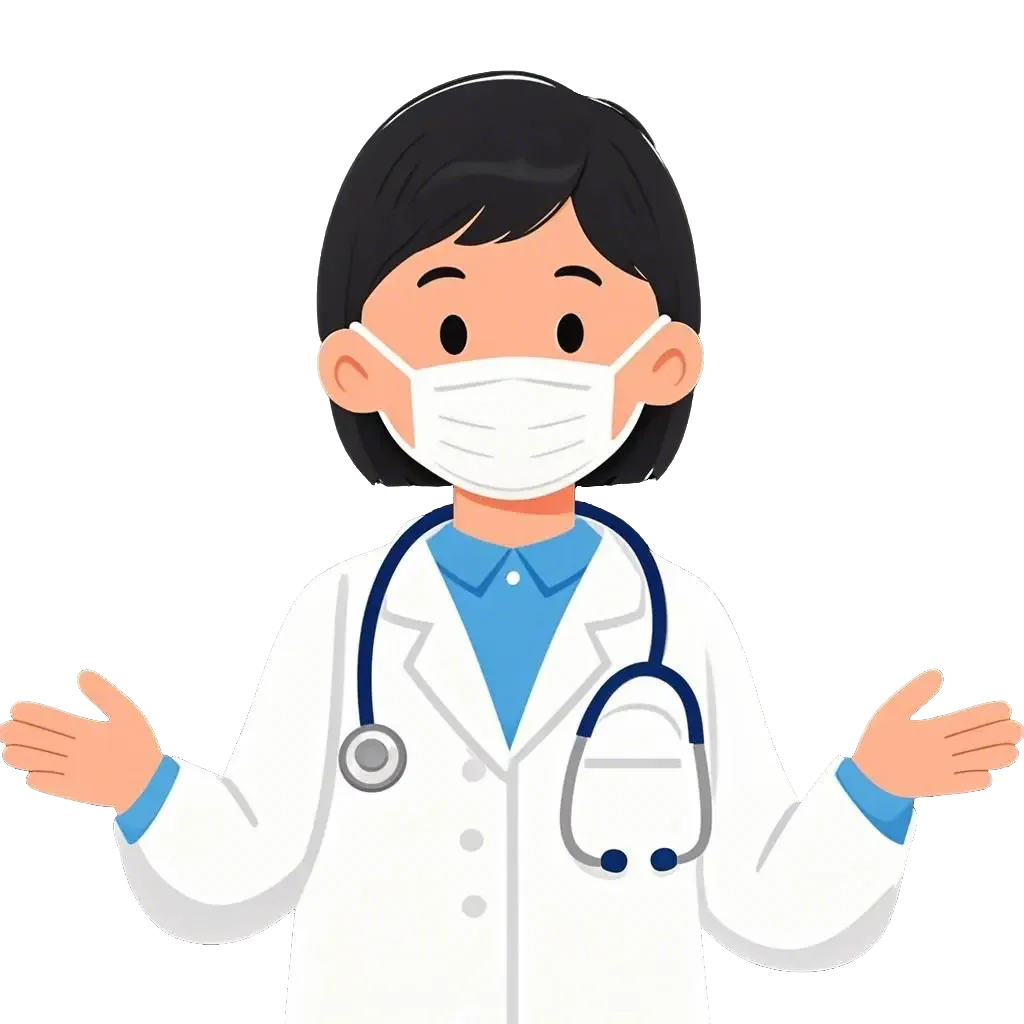
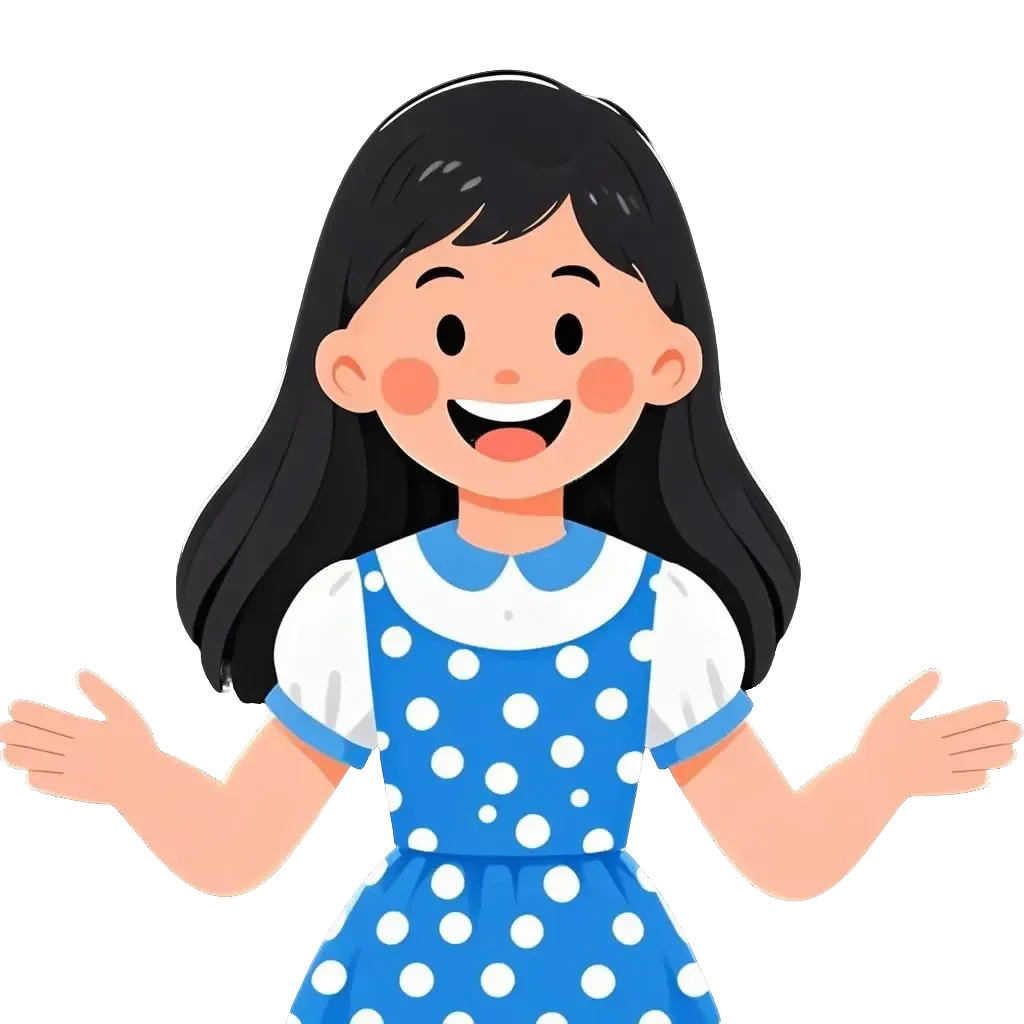
add CharacterIntro.vue

diff --git a/src/components/CharacterIntro.vue b/src/components/CharacterIntro.vue
@@ -1,0 +1,64 @@
+<script setup lang="ts">
+</script>
+
+<template>
+    <!-- 1 -->
+    <div class="flex max-w-7xl h-auto mx-auto">
+        <div class="w-62 h-62 lg:w-72 lg:h-72 flex-shrink-0 overflow-hidden bg-white flex items-center justify-center">
+            <img 
+                class="object-contain pointer-events-none p-2" 
+                src="/4.png" 
+                alt="Avatar" 
+                draggable="false"
+            />
+        </div>
+
+        <div class="lg:max-w-[42rem] max-w-lg">
+            <div class="chat chat-start">
+                <div class="chat-bubble bg-cyan-500 text-base-100">
+                    Tahukah kamu? Dengan Aeglen, kamu bisa berkonsultasi tentang gejala kesehatan tanpa harus antre di klinik.
+                </div>
+            </div>
+        </div>
+    </div>
+
+    <!-- 2 -->
+    <div class="flex max-w-7xl h-auto mx-auto justify-end mt-6">
+        <div class="lg:max-w-[42rem] max-w-lg">
+            <div class="chat chat-end">
+                <div class="chat-bubble chat-bubble-primary">
+                    Wah keren! aku bisa konsultasi kesehatan dan dapat second opinion ya?
+                </div>
+            </div>
+        </div>
+
+        <div class="w-62 h-62 lg:w-72 lg:h-72 flex-shrink-0 overflow-hidden bg-white flex items-center justify-center">
+            <img 
+                class="object-contain pointer-events-none p-2" 
+                src="/3.png" 
+                alt="Avatar 2" 
+                draggable="false"
+            />
+        </div>
+    </div>
+
+    <!-- 3 -->
+    <div class="flex max-w-7xl h-auto mx-auto">
+        <div class="w-62 h-62 lg:w-72 lg:h-72 flex-shrink-0 overflow-hidden bg-white flex items-center justify-center">
+            <img 
+                class="object-contain pointer-events-none p-2" 
+                src="/4.png" 
+                alt="Avatar" 
+                draggable="false"
+            />
+        </div>
+
+        <div class="lg:max-w-[42rem] max-w-lg">
+            <div class="chat chat-start">
+                <div class="chat-bubble bg-cyan-500 text-base-100">
+                    Tepat! Ini solusi cepat buat deteksi awal dan konsultasi ringan.
+                </div>
+            </div>
+        </div>
+    </div>
+</template>

diff --git a/src/components/ChatbotContent.vue b/src/components/ChatbotContent.vue
@@ -9,7 +9,7 @@ const isLoading = ref<boolean>(false);
 </script>
 
 <template>
-    <div class="h-full border">
+    <div class="h-full">
         <Loading :is-loading="isLoading" @update-loading="(state: boolean) => isLoading = state"/>
 
         <motion.h2 
@@ -19,16 +19,11 @@ const isLoading = ref<boolean>(false);
                 delay: 2.2,
                 duration: 0.8
             }"
-            class="p-8 max-w-5xl border lg:p-5 font-medium text-slate-700 mx-auto text-center text-xl space-y-6"
+            class="p-8 max-w-5xl lg:p-5 font-medium text-slate-700 mx-auto text-center text-xl space-y-6"
         >
-            Lorem ipsum dolor, sit amet consectetur adipisicing elit. Inventore aperiam harum exercitationem blanditiis cupiditate saepe suscipit ex labore laborum magnam. Incidunt quis, eos nesciunt sapiente repellendus aliquid cum vitae consequuntur?
+            “Konsultasikan pertanyaan medis Anda secara instan dengan AI, didukung oleh dokumen, jurnal, karya ilmiah medis terkait.
+            Chatbot ini dapat membantu menjawab pertanyaan seputar kesehatan umum, gejala penyakit, dan rekomendasi awal.“
         </motion.h2>
 
     </div>
 </template>
-
-<!-- 
-<p class="text-slate-700 max-w-xl">
-    Konsultasikan pertanyaan medis Anda secara instan dengan AI, didukung oleh dokumen, jurnal, karya ilmiah medis terkait.
-    Chatbot ini dapat membantu menjawab pertanyaan seputar kesehatan umum, gejala penyakit, dan rekomendasi awal.
-</p> -->

diff --git a/src/components/Navbar.vue b/src/components/Navbar.vue
@@ -19,14 +19,14 @@
                     <li><a class="btn justify-start bg-transparent border-transparent text-zinc-500 hover:text-sky-500 active:text-sky-500">About</a></li>
                 </ul>
             </div>
-            <a href="/" class="lg:ml-auto cursor-pointer w-28 lg:w-32 flex">
-                <img src="/sanoai.png" alt="Logo sanoai" class="m-auto">
+            <a href="/" class="lg:ml-auto cursor-pointer w-28 lg:w-24 flex">
+                <img src="/logo.png" alt="Logo sanoai" class="m-auto">
             </a>
         </div>
         <div class="navbar-start w-full text-xl hidden lg:flex">
             <ul class="menu menu-horizontal menu-lg px-1">
-                <li><a class="btn bg-transparent border-transparent text-zinc-400 hover:text-sky-500 active:text-sky-500">Home</a></li>
-                <li><a class="btn bg-transparent border-transparent text-zinc-400 hover:text-sky-500 active:text-sky-500">Services</a></li>
+                <li><a class="btn bg-transparent border-transparent text-zinc-400 hover:text-sky-500 active:text-sky-500">Beranda</a></li>
+                <li><a class="btn bg-transparent border-transparent text-zinc-400 hover:text-sky-500 active:text-sky-500">Layanan</a></li>
             </ul>
         </div>
         <div class="navbar-end gap-3">

diff --git a/src/components/ServicesContent.vue b/src/components/ServicesContent.vue
@@ -17,23 +17,6 @@ const tabs = ['Chatbot AI', 'Analisa Dokumen Medis', 'Analisa Foto Medis']
         <ChatbotContent v-if="currentTab === 'Chatbot AI'"/>
     </div>
 
-    <div class="flex max-w-7xl h-82 mx-auto gap-4">
-        <div class="w-72 h-72 flex-shrink-0 border overflow-hidden bg-white flex items-center justify-center">
-            <img 
-                class="object-contain pointer-events-none p-2" 
-                src="/3.png" 
-                alt="Avatar" 
-                draggable="false"
-            />
-        </div>
 
-        <div class="max-w-[42rem] border">
-            <div class="chat chat-start">
-                <div class="chat-bubble bg-cyan-500 text-base-100">
-                    Lorem ipsum dolor sit amet consectetur adipisicing elit. Quaerat, voluptate! Aspernatur facilis totam, minima cumque molestiae pariatur similique consequuntur magni ipsa nulla, provident a unde voluptate itaque placeat! Enim, cum?
-                </div>
-            </div>
-        </div>
-    </div>
 </template>
 

diff --git a/src/components/LandingPage.vue b/src/components/LandingPage.vue
@@ -2,6 +2,7 @@
 import { motion, useScroll } from 'motion-v'
 import LandingHero from './LandingHero.vue';
 import SpecialistContent from './SpecialistContent.vue';
+import CharacterIntro from './CharacterIntro.vue';
 
 const { scrollYProgress } = useScroll();
 const scrollIndicator = {
@@ -19,5 +20,8 @@ const scrollIndicator = {
     <motion.div id="scroll-indicator" :style="scrollIndicator" class="bg-sky-800 rounded-full z-50" />
 
     <LandingHero />
+
     <SpecialistContent />
+
+    <CharacterIntro />
 </template>

diff --git a/src/App.vue b/src/App.vue
@@ -1,13 +1,13 @@
 <script setup lang="ts">
-// import LandingPage from './components/LandingPage.vue';
-import Services from './components/Services.vue';
+import LandingPage from './components/LandingPage.vue';
+// import Services from './components/Services.vue';
 import Navbar from './components/Navbar.vue';
 // import Footer from './components/Footer.vue';
 </script>
 
 <template>
   <Navbar />
-  <Services />
-   <!-- <LandingPage /> -->
+  <!-- <Services /> -->
+   <LandingPage />
   <Footer></Footer>
 </template>

diff --git a/src/components/LandingImage.vue b/src/components/LandingImage.vue
@@ -70,9 +70,9 @@ import { motion } from 'motion-v';
             </div>
 
         </motion.div>
-        <div class="flex -translate-x-7 translate-y-5 overflow-hidden">
+        <div class="flex translate-y-5 overflow-hidden">
             <img 
-                class="object-contain scale-120 pointer-events-none p-2 -z-10" 
+                class="object-contain pointer-events-none p-2 -z-10" 
                 src="/1.png" 
                 alt="Avatar" 
                 draggable="false"

diff --git a/components.d.ts b/components.d.ts
@@ -8,6 +8,7 @@ export {}
 /* prettier-ignore */
 declare module 'vue' {
   export interface GlobalComponents {
+    CharacterIntro: typeof import('./src/components/CharacterIntro.vue')['default']
     Chatbot: typeof import('./src/components/Chatbot.vue')['default']
     ChatbotContent: typeof import('./src/components/ChatbotContent.vue')['default']
     Features: typeof import('./src/components/Features.vue')['default']
